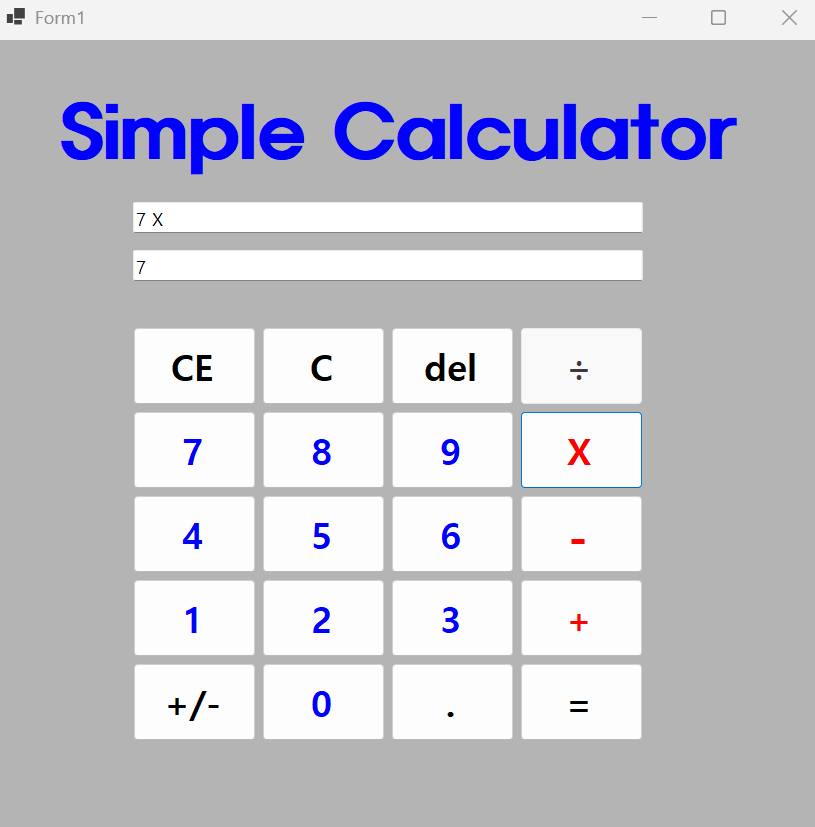
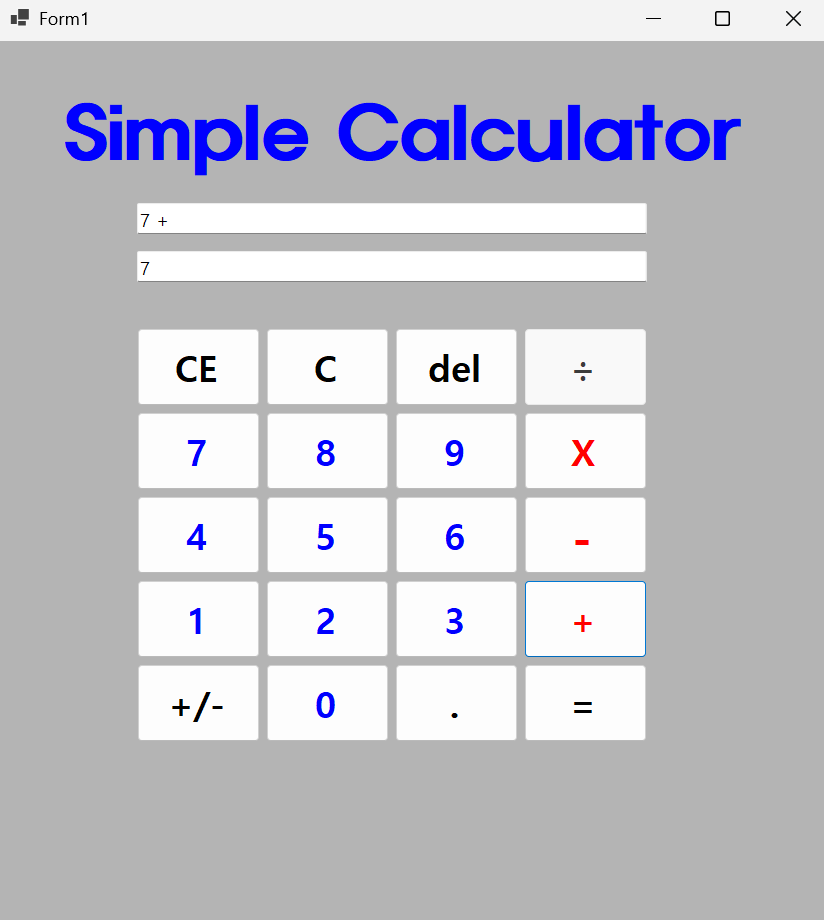
과제2 코딩과 테스트 완료 뺄셈(-), 곱셈(*), 나눗셈(/) 기능을 추가로 구현한다. 기존 덧셈(+) 표준 로직을 재사용하여 연산자만 변경하는 효율적인 이벤트 구현한다.

Changed region(s): [[0.0613, 0.0907, 0.9202, 0.9069], [0.0, 0.0, 1.0, 0.0605]]

diff --git a/Form1.cs b/Form1.cs
@@ -5,71 +5,140 @@ namespace SimpleCalculator
 {
     public partial class Form1 : Form
     {
-        // 1. 계산에 필요한 전역 변수들
+        // 계산에 필요한 전역 변수들
         private int firstNumber = 0;   // 첫 번째 피연산자
         private int secondNumber = 0;  // 두 번째 피연산자
         private string currentOperator = ""; // 현재 연산자 (+, -, X, ÷)
-        private bool isOperatorClicked = false; // 연산자가 클릭되었는지 여부
+        private bool isOperatorClicked = false; // 연산자가 클릭되었는지 여부 (새 숫자 입력용)
 
         public Form1()
         {
             InitializeComponent();
-            AttachEvents(); // 프로그램 실행 시 버튼 이벤트를 연결합니다.
+            AttachEvents(); // 프로그램 실행 시 버튼과 기능들을 연결합니다.
+
+            // 디자이너에서 비활성화(Enabled = false)되어 있던 나누기 버튼을 활성화합니다.
+            Dividebtn.Enabled = true;
         }
 
-        // 2. 숫자 버튼 클릭 시 작동하는 기능 (숫자 이어붙이기)
+        // --------------------------------------------------
+        // [1] 숫자 입력 기능 (0 ~ 9 버튼 클릭 시)
+        // --------------------------------------------------
         private void Number_Click(object sender, EventArgs e)
         {
             Button btn = sender as Button;
 
+            // 현재 화면이 "0"이거나, 직전에 연산자를 눌렀다면 화면을 비우고 새로 입력받음
             if (txtBox2.Text == "0" || isOperatorClicked)
             {
                 txtBox2.Text = "";
                 isOperatorClicked = false;
             }
 
-            txtBox2.Text += btn.Text;
+            txtBox2.Text += btn.Text; // 누른 숫자 버튼의 글자를 이어붙임
         }
 
-        // 3. 사칙연산 (+, -, X, ÷) 버튼 클릭 시 작동하는 기능
+        // --------------------------------------------------
+        // [2] 사칙연산 기호 입력 기능 (+, -, X, ÷ 버튼 클릭 시)
+        // --------------------------------------------------
         private void Operator_Click(object sender, EventArgs e)
         {
             Button btn = sender as Button;
-            currentOperator = btn.Text;
+            currentOperator = btn.Text; // 클릭된 버튼의 기호를 저장 (+, -, X, ÷)
 
+            // 하단 텍스트박스의 현재 글자를 정수(Int)로 변환하여 첫 번째 숫자로 저장
             firstNumber = int.Parse(txtBox2.Text);
 
-            isOperatorClicked = true;
+            isOperatorClicked = true; // 다음 숫자를 누를 때 화면이 새로 지워지도록 설정
 
+            // 상단 텍스트박스(txtBox1)에 누른 연산 과정 표시 (예: 10 -)
             txtBox1.Text = $"{firstNumber} {currentOperator}";
         }
 
-        // 4. 결과 (=) 버튼 클릭 시 작동하는 기능
+        // --------------------------------------------------
+        // [3] 계산 결과 출력 기능 (= 버튼 클릭 시)
+        // --------------------------------------------------
         private void Answerbtn_Click(object sender, EventArgs e)
         {
+            // 하단 텍스트박스의 현재 글자를 정수(Int)로 변환하여 두 번째 숫자로 저장
             secondNumber = int.Parse(txtBox2.Text);
             int result = 0;
 
+            // 저장된 연산자 기호에 따라 사칙연산 계산 수행
             switch (currentOperator)
             {
-                case "+": result = firstNumber + secondNumber; break;
-                case "-": result = firstNumber - secondNumber; break;
-                case "X": result = firstNumber * secondNumber; break;
-                case "÷":
-                    if (secondNumber != 0) result = firstNumber / secondNumber;
+                case "+":
+                    result = firstNumber + secondNumber;
+                    break;
+                case "-":
+                    result = firstNumber - secondNumber;
+                    break;
+                case "X":
+                    result = firstNumber * secondNumber;
+                    break;
+                case "÷": // 디자이너에 설정된 특수문자 ÷ 기호와 일치시킴
+                    if (secondNumber != 0)
+                    {
+                        result = firstNumber / secondNumber; // 정수형 나눗셈 (몫만 계산)
+                    }
+                    else
+                    {
+                        MessageBox.Show("0으로 나눌 수 없습니다!", "계산 오류", MessageBoxButtons.OK, MessageBoxIcon.Error);
+                        txtBox2.Text = "0";
+                        return; // 0으로 나누려 할 시 계산을 중단함
+                    }
                     break;
             }
 
+            // 계산 결과값(Int)을 다시 문자열(String)로 변환하여 하단 텍스트박스에 표시
             txtBox2.Text = result.ToString();
 
+            // 상단 텍스트박스에 최종 완성된 수식 출력 (예: 10 - 2 = 8)
             txtBox1.Text = $"{firstNumber} {currentOperator} {secondNumber} = {result}";
 
-            isOperatorClicked = true;
+            isOperatorClicked = true; // 계산이 끝난 후 숫자를 누르면 새로운 계산이 시작되도록 플래그 설정
         }
 
-        // 5. 버튼과 기능을 묶어주는 연결 함수
+        // --------------------------------------------------
+        // [4] 지우기 기능 (CE, C, del 버튼 클릭 시)
+        // --------------------------------------------------
+        private void CEbtn_Click(object sender, EventArgs e)
+        {
+            txtBox2.Text = "0"; // 현재 입력 중인 하단창만 0으로 초기화
+        }
+
+        private void Cbtn_Click(object sender, EventArgs e)
+        {
+            txtBox1.Text = ""; // 상단 수식창 비우기
+            txtBox2.Text = "0"; // 하단 결과창 0으로 초기화
+
+            // 모든 연산 변수 초기화
+            firstNumber = 0;
+            secondNumber = 0;
+            currentOperator = "";
+            isOperatorClicked = false;
+        }
+
+        private void Delbtn_Click(object sender, EventArgs e)
+        {
+            if (txtBox2.Text.Length > 0)
+            {
+                // 마지막 한 글자를 잘라냄 (백스페이스 기능)
+                txtBox2.Text = txtBox2.Text.Substring(0, txtBox2.Text.Length - 1);
+            }
+
+            // 다 지워서 빈 칸이 되거나 음수 부호만 남으면 0으로 리셋
+            if (txtBox2.Text == "" || txtBox2.Text == "-")
+            {
+                txtBox2.Text = "0";
+            }
+        }
+
+        // --------------------------------------------------
+        // [5] 디자이너에 생성된 버튼과 실제 코드를 묶어주는 연결 함수
+        // --------------------------------------------------
         private void AttachEvents()
         {
+            // 숫자 버튼 이벤트 연결
             number0.Click += Number_Click;
             number1.Click += Number_Click;
             number2.Click += Number_Click;
@@ -81,12 +150,19 @@ namespace SimpleCalculator
             number8.Click += Number_Click;
             number9.Click += Number_Click;
 
+            // 사칙연산 버튼 이벤트 연결
             Plusbtn.Click += Operator_Click;
             Minusbtn.Click += Operator_Click;
             Multibtn.Click += Operator_Click;
             Dividebtn.Click += Operator_Click;
 
+            // 결과(=) 버튼 이벤트 연결
             Answerbtn.Click += Answerbtn_Click;
+
+            // 지우기 버튼 이벤트 연결
+            CEbtn.Click += CEbtn_Click;
+            Cbtn.Click += Cbtn_Click;
+            Delbtn.Click += Delbtn_Click;
         }
     }
 }

diff --git a/README.md b/README.md
@@ -40,3 +40,22 @@
 	- 숫자 Button 클릭 시 TextBox에 표시합니다. 2가지 방법으로 표시
 	- 2개의 피연산자의 입력값을 Int로 바꾸어 더하기 계산을 수행하고 그 결과를 저장합니다.
 	- 계산 결과 값을 문자열로 변환하여 표시합니다.
+
+
+## 실행 화면 (과제2)
+
+- 과제2 코드의 실행 스크린샷
+
+![과제2 실행화면1](img/과제2-1.png)
+![과제2 실행화면2](img/과제2-2.png)
+![과제2 실행화면3](img/과제2-3.png)
+![과제2 실행화면4](img/과제2-4.png)
+![과제2 실행화면5](img/과제2-5.png)
+
+- 과제 내용
+	- 계산기 프로그램 내 뺄셈(-), 곱셈(X), 나눗셈(÷) 연산 기능 추가 구현
+	
+- 구현 내용과 기능 설명
+	- 뺄셈(-), 곱셈(*), 나눗셈(/) 기능을 추가로 구현한다.
+	- 기존 덧셈(+) 표준 로직을 재사용하여 연산자만 변경하는 효율적인 이벤트 구현한다.
+	
